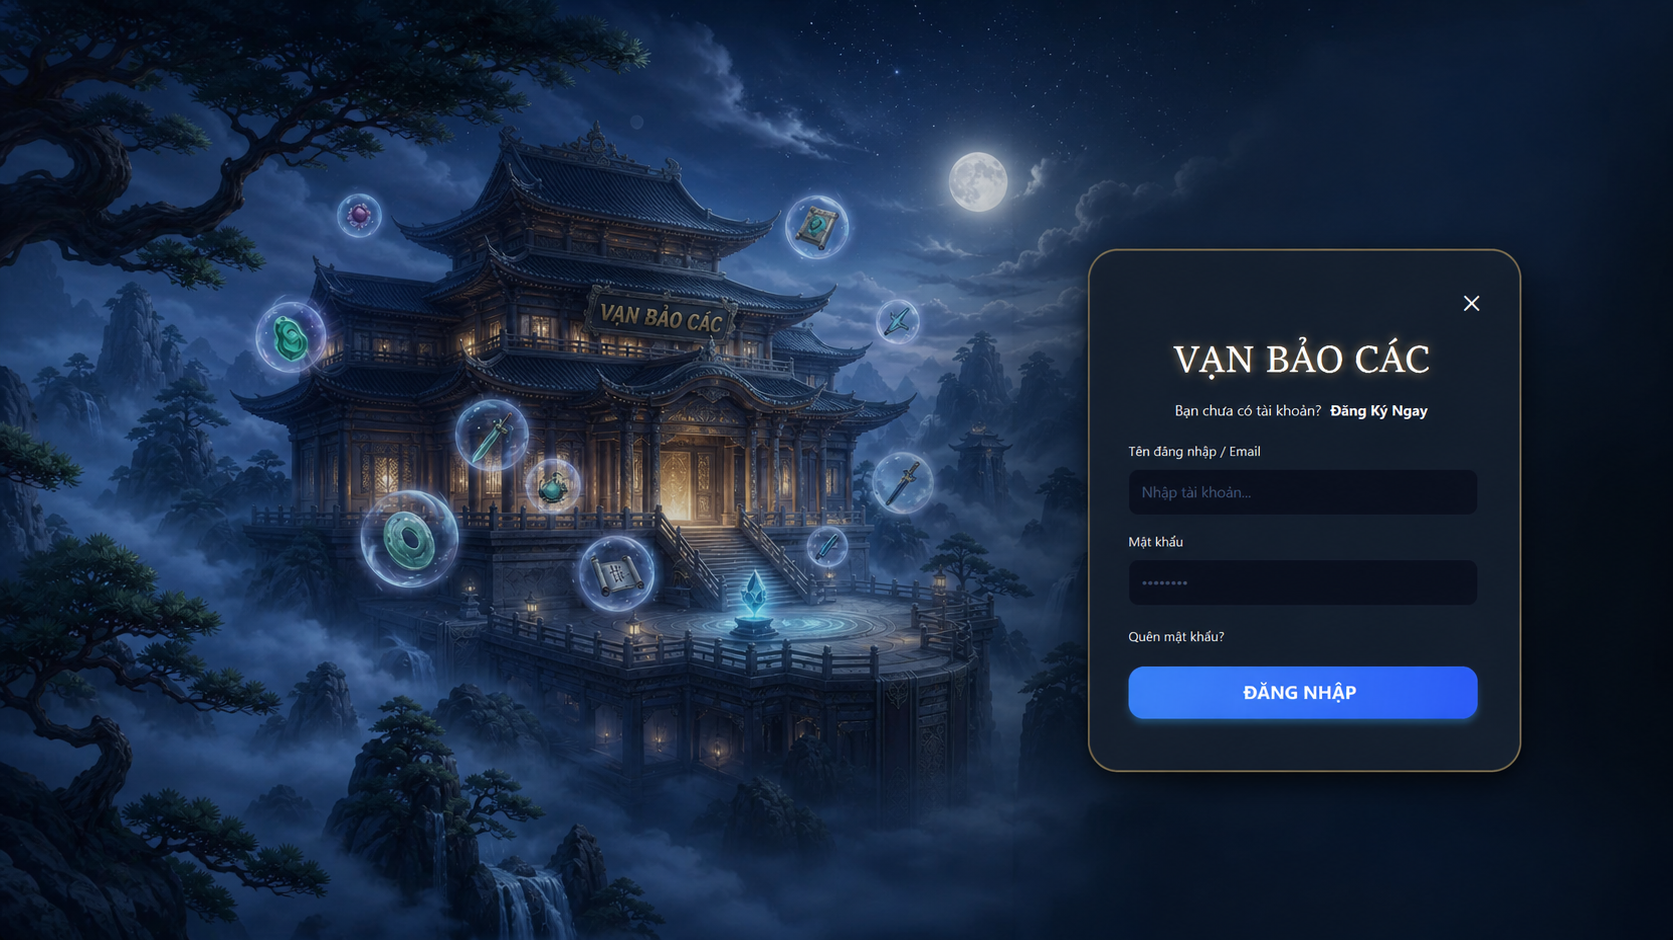
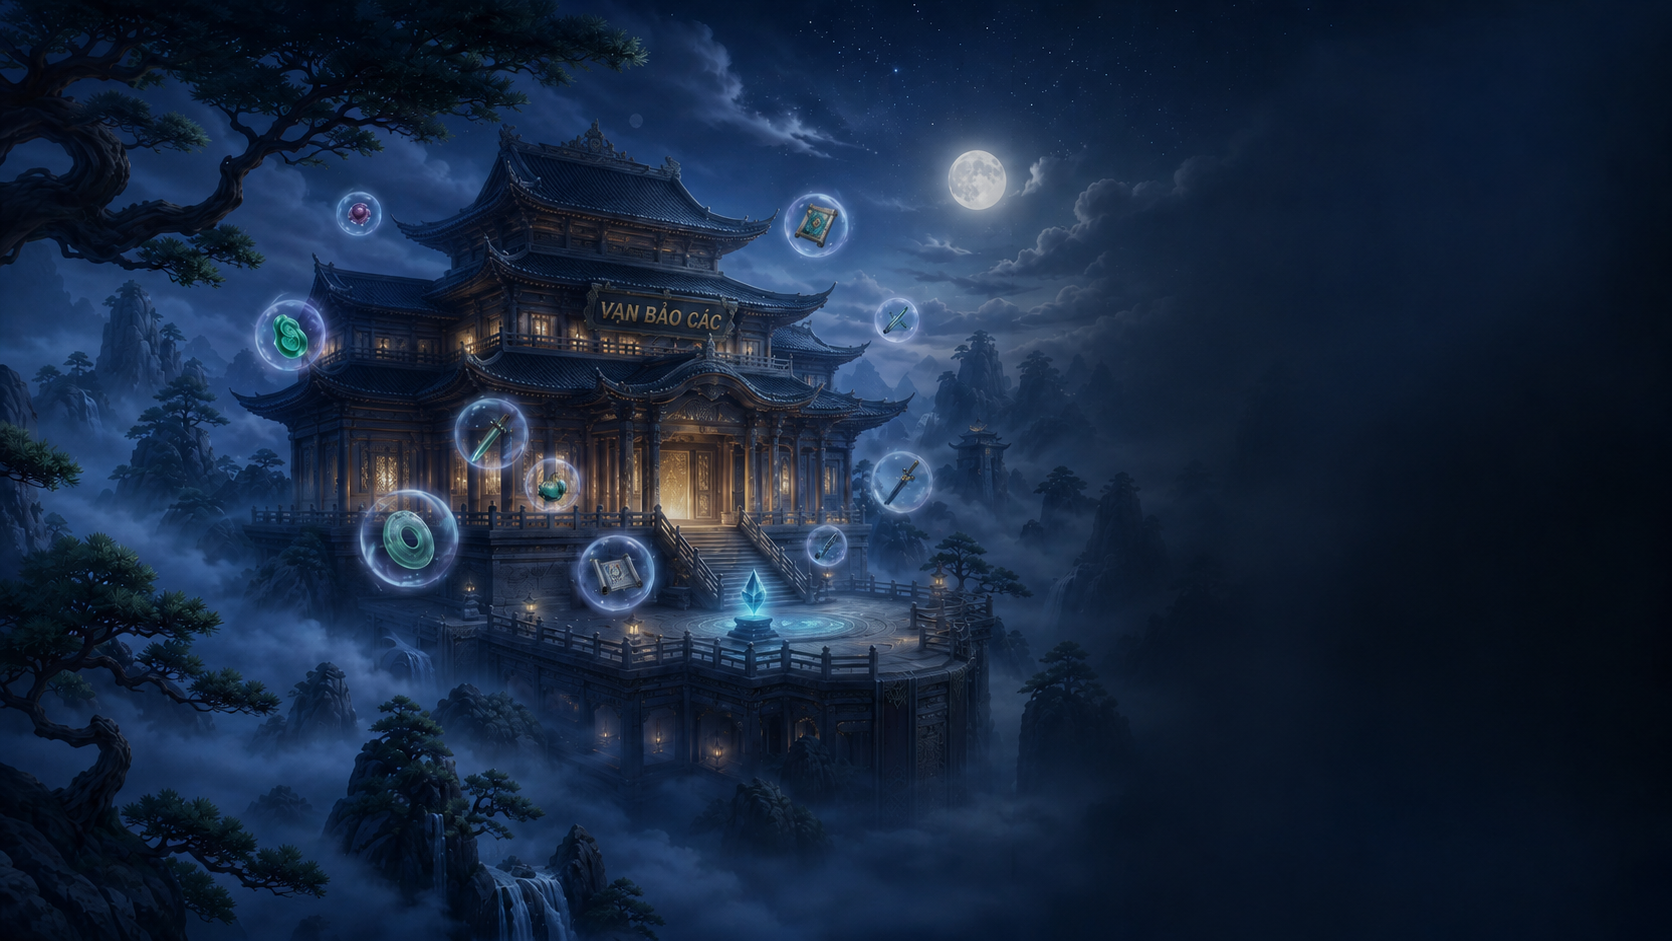
nốt rìa ngoài

diff --git a/src/main/java/app/controllers/RegisterController.java b/src/main/java/app/controllers/RegisterController.java
@@ -10,22 +10,42 @@ import app.models.*;
 import app.service.UserService;
 import javafx.event.ActionEvent;
 import javafx.fxml.FXML;
-import javafx.scene.control.Alert;
 import javafx.scene.control.Label;
 import javafx.scene.control.PasswordField;
 import javafx.scene.control.TextField;
 import javafx.scene.input.MouseEvent;
+import javafx.scene.layout.AnchorPane;
 
 public class RegisterController {
 
+  @FXML private AnchorPane rootPane;
   @FXML private Label lblLogin;
   @FXML private TextField txtName;
   @FXML private TextField txtAccount;
-
   @FXML private PasswordField txtPassword;
 
   private final UserDAO userDAO = UserDAO.getInstance();
   private final UserService userService = new UserService(userDAO);
+
+  @FXML
+  private void initialize() {
+    // Load background image giống login
+    try {
+      String url = getClass()
+          .getResource("/app/views/images/background_login.png")
+          .toExternalForm();
+      if (rootPane != null) {
+        rootPane.setStyle(
+            "-fx-background-image: url('" + url + "');"
+                + "-fx-background-size: cover;"
+                + "-fx-background-position: center center;"
+                + "-fx-background-repeat: no-repeat;"
+                + "-fx-background-color: #0a0f16;");
+      }
+    } catch (Exception e) {
+      System.err.println("Không load được background: " + e.getMessage());
+    }
+  }
 
   @FXML
   public void handleRegister(ActionEvent event) {
@@ -57,34 +77,7 @@ public class RegisterController {
   }
 
   @FXML
-  public void backToLogin(ActionEvent event) {
-    NavigationManager.getInstance().navigateTo(View.LOGIN);
-  }
-
-  @FXML
   public void backToLoginMouse(MouseEvent event) {
     NavigationManager.getInstance().navigateTo(View.LOGIN);
-  }
-
-  @FXML
-  public void handleMouseEntered(MouseEvent event) {
-    if (lblLogin != null) {
-      lblLogin.setUnderline(true);
-    }
-  }
-
-  @FXML
-  public void handleMouseExited(MouseEvent event) {
-    if (lblLogin != null) {
-      lblLogin.setUnderline(false);
-    }
-  }
-
-  private void showAlert(Alert.AlertType alertType, String title, String message) {
-    Alert alert = new Alert(alertType);
-    alert.setTitle(title);
-    alert.setHeaderText(null);
-    alert.setContentText(message);
-    alert.showAndWait();
   }
 }

diff --git a/src/main/java/app/controllers/ConnectServerController.java b/src/main/java/app/controllers/ConnectServerController.java
@@ -11,11 +11,33 @@ import javafx.fxml.FXML;
 import javafx.scene.control.Alert;
 import javafx.scene.control.Button;
 import javafx.scene.control.Label;
+import javafx.scene.layout.AnchorPane;
 
 public class ConnectServerController {
   @FXML private Button connectButton;
   @FXML private Label statusLabel;
+  @FXML private AnchorPane rootPane;
   private static final int CONNECTION_TIMEOUT = 5000; // 5 seconds
+
+  @FXML
+  private void initialize() {
+    // Load background image giống login
+    try {
+      String url = getClass()
+          .getResource("/app/views/images/background_login.png")
+          .toExternalForm();
+      if (rootPane != null) {
+        rootPane.setStyle(
+            "-fx-background-image: url('" + url + "');"
+                + "-fx-background-size: cover;"
+                + "-fx-background-position: center center;"
+                + "-fx-background-repeat: no-repeat;"
+                + "-fx-background-color: #0a0f16;");
+      }
+    } catch (Exception e) {
+      System.err.println("Không load được background: " + e.getMessage());
+    }
+  }
 
   @FXML
   public void ConnectServer(ActionEvent event) {
